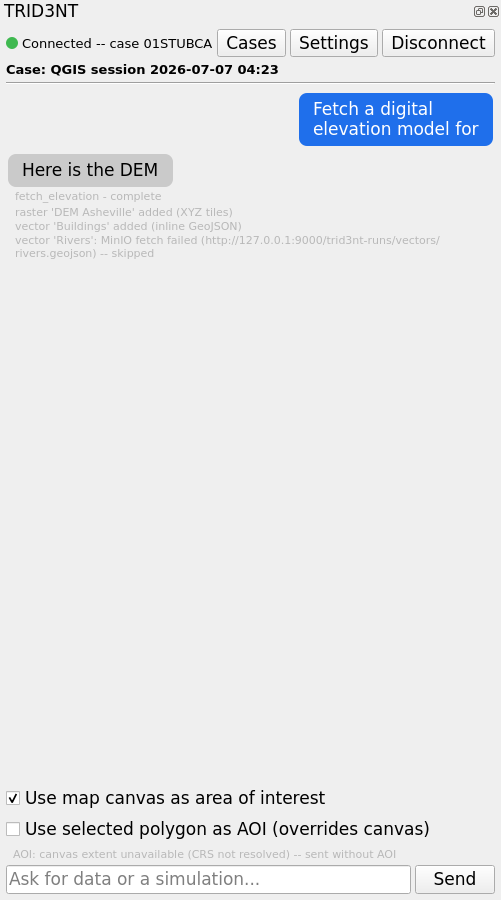
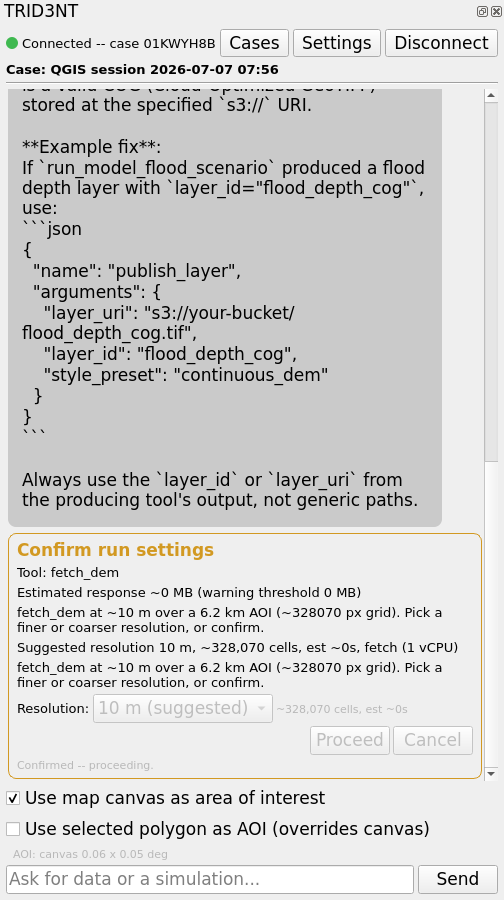
test(qgis-plugin): first-run driver hardening (render prompt + publish nudge, canvas AOI + OSM basemap, failure shots never clobber proof)
Live first-run PROVEN 08:05: qwen3-8b chained fetch_dem -> publish_layer
unprompted and USGS_3DEP_DEM_Tampa materialized as XYZ tiles in 95s.
Documented failure mode with a real canvas AOI: the model calls fetch_dem
and publish_layer in the SAME iteration with hallucinated placeholder
handles, then stops after the honest error (0-for-4) -- a lessons-loop /
model-upgrade target, not a plugin defect.

diff --git a/qgis-plugin/tests/headless_first_run.py b/qgis-plugin/tests/headless_first_run.py
@@ -83,6 +83,31 @@ class FakeIface:
 
 iface = FakeIface()
 
+# Give the canvas a real CRS + a downtown-Tampa extent (EPSG:3857) so the
+# dock's canvas-AOI path resolves and the agent receives a genuine bbox --
+# without this the AOI line reads "CRS not resolved -- sent without AOI" and
+# the model geocodes a ~10 m degenerate bbox.
+from qgis.core import QgsCoordinateReferenceSystem, QgsRectangle  # noqa: E402
+
+iface.mapCanvas().setDestinationCrs(QgsCoordinateReferenceSystem("EPSG:3857"))
+iface.mapCanvas().setExtent(
+    QgsRectangle(-9184000, 3235000, -9178000, 3241000)  # ~6 km downtown Tampa
+)
+
+# OSM basemap so the proof screenshot shows a real map under the agent layer
+# (loads straight from tile.openstreetmap.org -- no agent involvement).
+from qgis.core import QgsProject as _QgsProject, QgsRasterLayer  # noqa: E402
+
+_osm = QgsRasterLayer(
+    "type=xyz&url=https://tile.openstreetmap.org/%7Bz%7D/%7Bx%7D/%7By%7D.png"
+    "&zmax=19&zmin=0",
+    "OpenStreetMap",
+    "wms",
+)
+if _osm.isValid():
+    _QgsProject.instance().addMapLayer(_osm)
+    print("[first-run] OSM basemap added", flush=True)
+
 from qgis.PyQt.QtCore import QSettings  # noqa: E402
 
 from trid3nt.plugin import Trid3ntPlugin  # noqa: E402
@@ -156,17 +181,31 @@ if dock._case_id is None:
     qgs.exitQgis()
     sys.exit(2)
 
-# send the prompt through the dock's input
+# send the prompt through the dock's input. fetch_dem opts OUT of the
+# server's deterministic auto-publish (raw input rasters are not
+# auto-rendered), so ask for the render explicitly; if the small model
+# still stops after the fetch, nudge once with a follow-up -- the same
+# two-step a real user types.
 dock.input_edit.setText(
-    "Fetch a digital elevation model for downtown Tampa, Florida."
+    "Fetch a digital elevation model for downtown Tampa, Florida, "
+    "and render it on the map."
 )
 dock._send()
 print("[first-run] prompt sent via input_edit + _send()", flush=True)
 
-# wait up to 6 min for a layer to land, pumping events (confirm gates too)
+# wait up to 9 min for a layer to land, pumping events (confirm gates too)
 t0 = time.time()
 clicked_gates: set = set()
-while time.time() - t0 < 360:
+nudged = False
+while time.time() - t0 < 540:
+    if not nudged and time.time() - t0 > 240:
+        nudged = True
+        dock.input_edit.setText(
+            "Call the publish_layer tool now, passing the layer handle "
+            "that fetch_dem returned, to render the elevation layer."
+        )
+        dock._send()
+        print("[first-run] no layer yet -- publish nudge sent", flush=True)
     pump(5)
     # auto-proceed any (enabled, unanswered) gate card
     for btn in iface.mainWindow().findChildren(QPushButton):
@@ -178,28 +217,45 @@ while time.time() - t0 < 360:
             clicked_gates.add(id(btn))
             btn.click()
             print("[first-run] clicked gate: Proceed", flush=True)
-    layer_count = len(QgsProject.instance().mapLayers())
-    if layer_count > 0:
+    # agent-delivered layers only -- the driver-added basemap doesn't count
+    agent_layers = [
+        lyr
+        for lyr in QgsProject.instance().mapLayers().values()
+        if lyr.name() != "OpenStreetMap"
+    ]
+    if agent_layers:
         print(
-            f"[first-run] {layer_count} layer(s) in project "
+            f"[first-run] {len(agent_layers)} agent layer(s) in project "
             f"after {time.time() - t0:.0f}s",
             flush=True,
         )
         break
 
-# zoom canvas to the first layer + render
-layers = list(QgsProject.instance().mapLayers().values())
+# zoom canvas to the agent layer over the basemap + render
+layers = [
+    lyr
+    for lyr in QgsProject.instance().mapLayers().values()
+    if lyr.name() != "OpenStreetMap"
+]
 if layers:
-    iface.mapCanvas().setLayers(layers)
+    all_layers = layers + [
+        lyr
+        for lyr in QgsProject.instance().mapLayers().values()
+        if lyr.name() == "OpenStreetMap"
+    ]
+    iface.mapCanvas().setLayers(all_layers)
     iface.mapCanvas().setExtent(layers[0].extent())
     iface.mapCanvas().refresh()
-    pump(8)
+    pump(12)
 
 os.makedirs(PROOF, exist_ok=True)
+# A failed run must never clobber a prior successful proof -- failure shots
+# go to the *-failed names for diagnosis.
+_suffix = "" if layers else "-failed"
 iface.mainWindow().grab().save(
-    os.path.join(PROOF, "40-qgis-plugin-firstrun.png")
+    os.path.join(PROOF, f"40-qgis-plugin-firstrun{_suffix}.png")
 )
-dock.grab().save(os.path.join(PROOF, "41-qgis-plugin-dock.png"))
+dock.grab().save(os.path.join(PROOF, f"41-qgis-plugin-dock{_suffix}.png"))
 print(
     "[first-run] screenshots saved; layers:",
     [layer.name() for layer in layers],